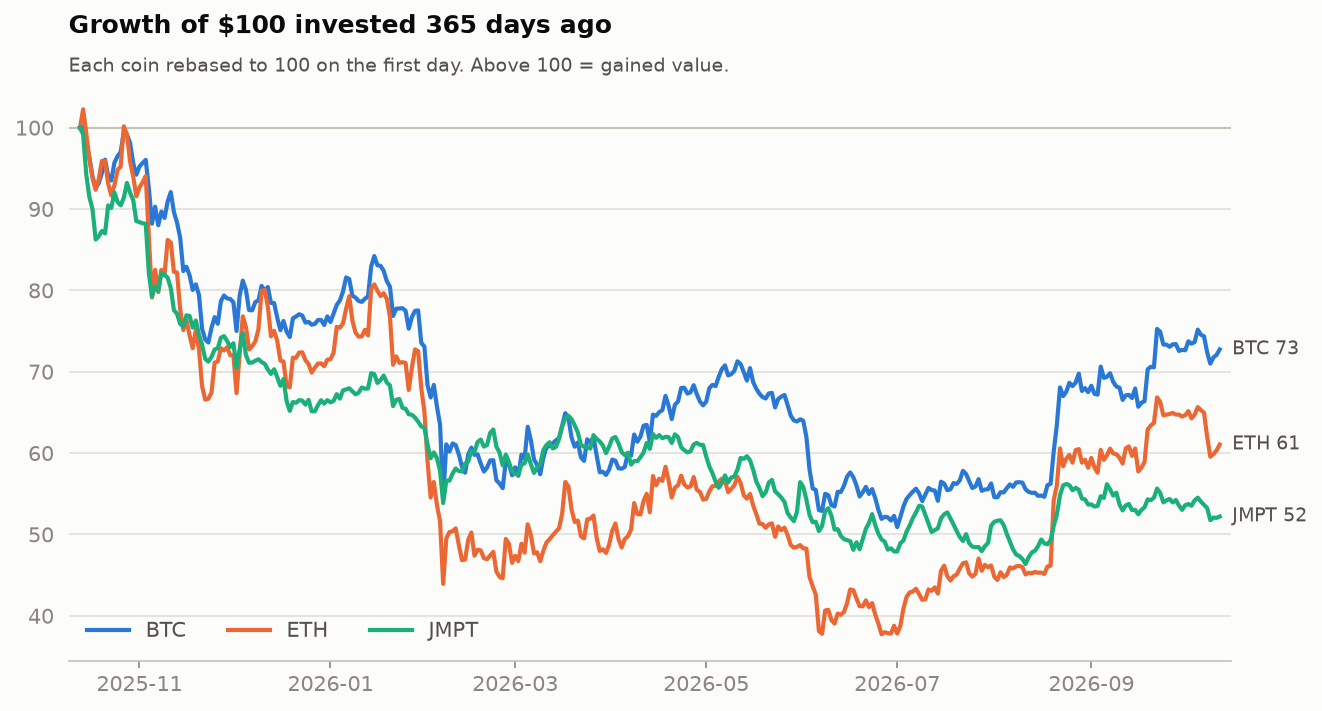
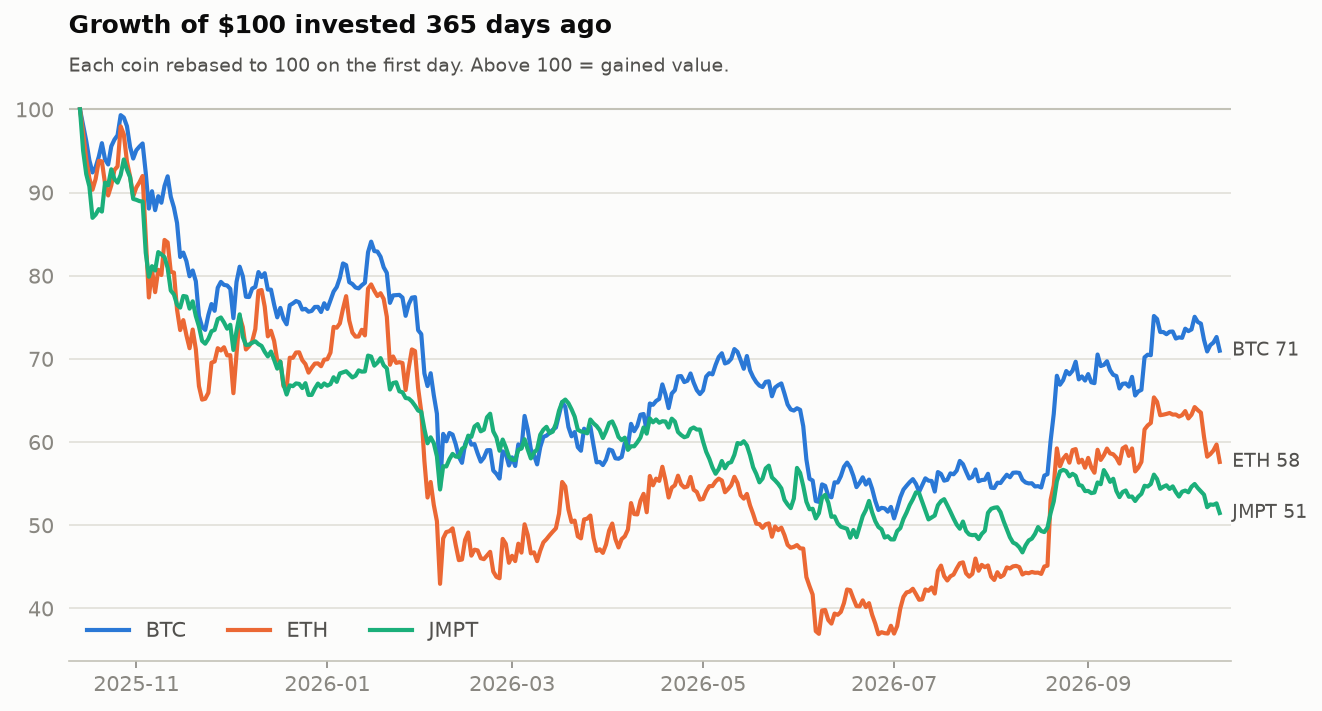
data: market update 2026-10-13

diff --git a/README.md b/README.md
@@ -9,13 +9,13 @@ The project compares two of the largest cryptocurrencies with a small-cap token:
 ## Latest stats
 
 <!-- STATS:START -->
-_Snapshot as of **2026-10-12 00:00 UTC**. Updated automatically every day._
+_Snapshot as of **2026-10-13 00:00 UTC**. Updated automatically every day._
 
 | Coin | Price | 1 day | 7 days | 30 days | 1 year | Volatility (30d) | Market cap |
 |:--|--:|--:|--:|--:|--:|--:|--:|
-| **BTC** Bitcoin | $83,691 | ▲ +0.9% | ▼ -3.2% | ▲ +8.4% | – | 38% | $1.68T |
-| **ETH** Ethereum | $2,535 | ▲ +1.2% | ▼ -7.0% | ▲ +0.8% | – | 44% | $309.54B |
-| **JMPT** JumpToken | $0.5562 | ▲ +0.3% | ▼ -4.2% | ▼ -2.5% | – | 21% | $8.21M |
+| **BTC** Bitcoin | $81,795 | ▼ -2.3% | ▼ -4.6% | ▲ +5.9% | ▼ -28.9% | 39% | $1.64T |
+| **ETH** Ethereum | $2,446 | ▼ -3.5% | ▼ -9.8% | ▼ -3.1% | ▼ -41.1% | 45% | $298.71B |
+| **JMPT** JumpToken | $0.544 | ▼ -2.2% | ▼ -5.5% | ▼ -5.0% | ▼ -48.9% | 22% | $8.03M |
 <!-- STATS:END -->
 
 ## Charts
